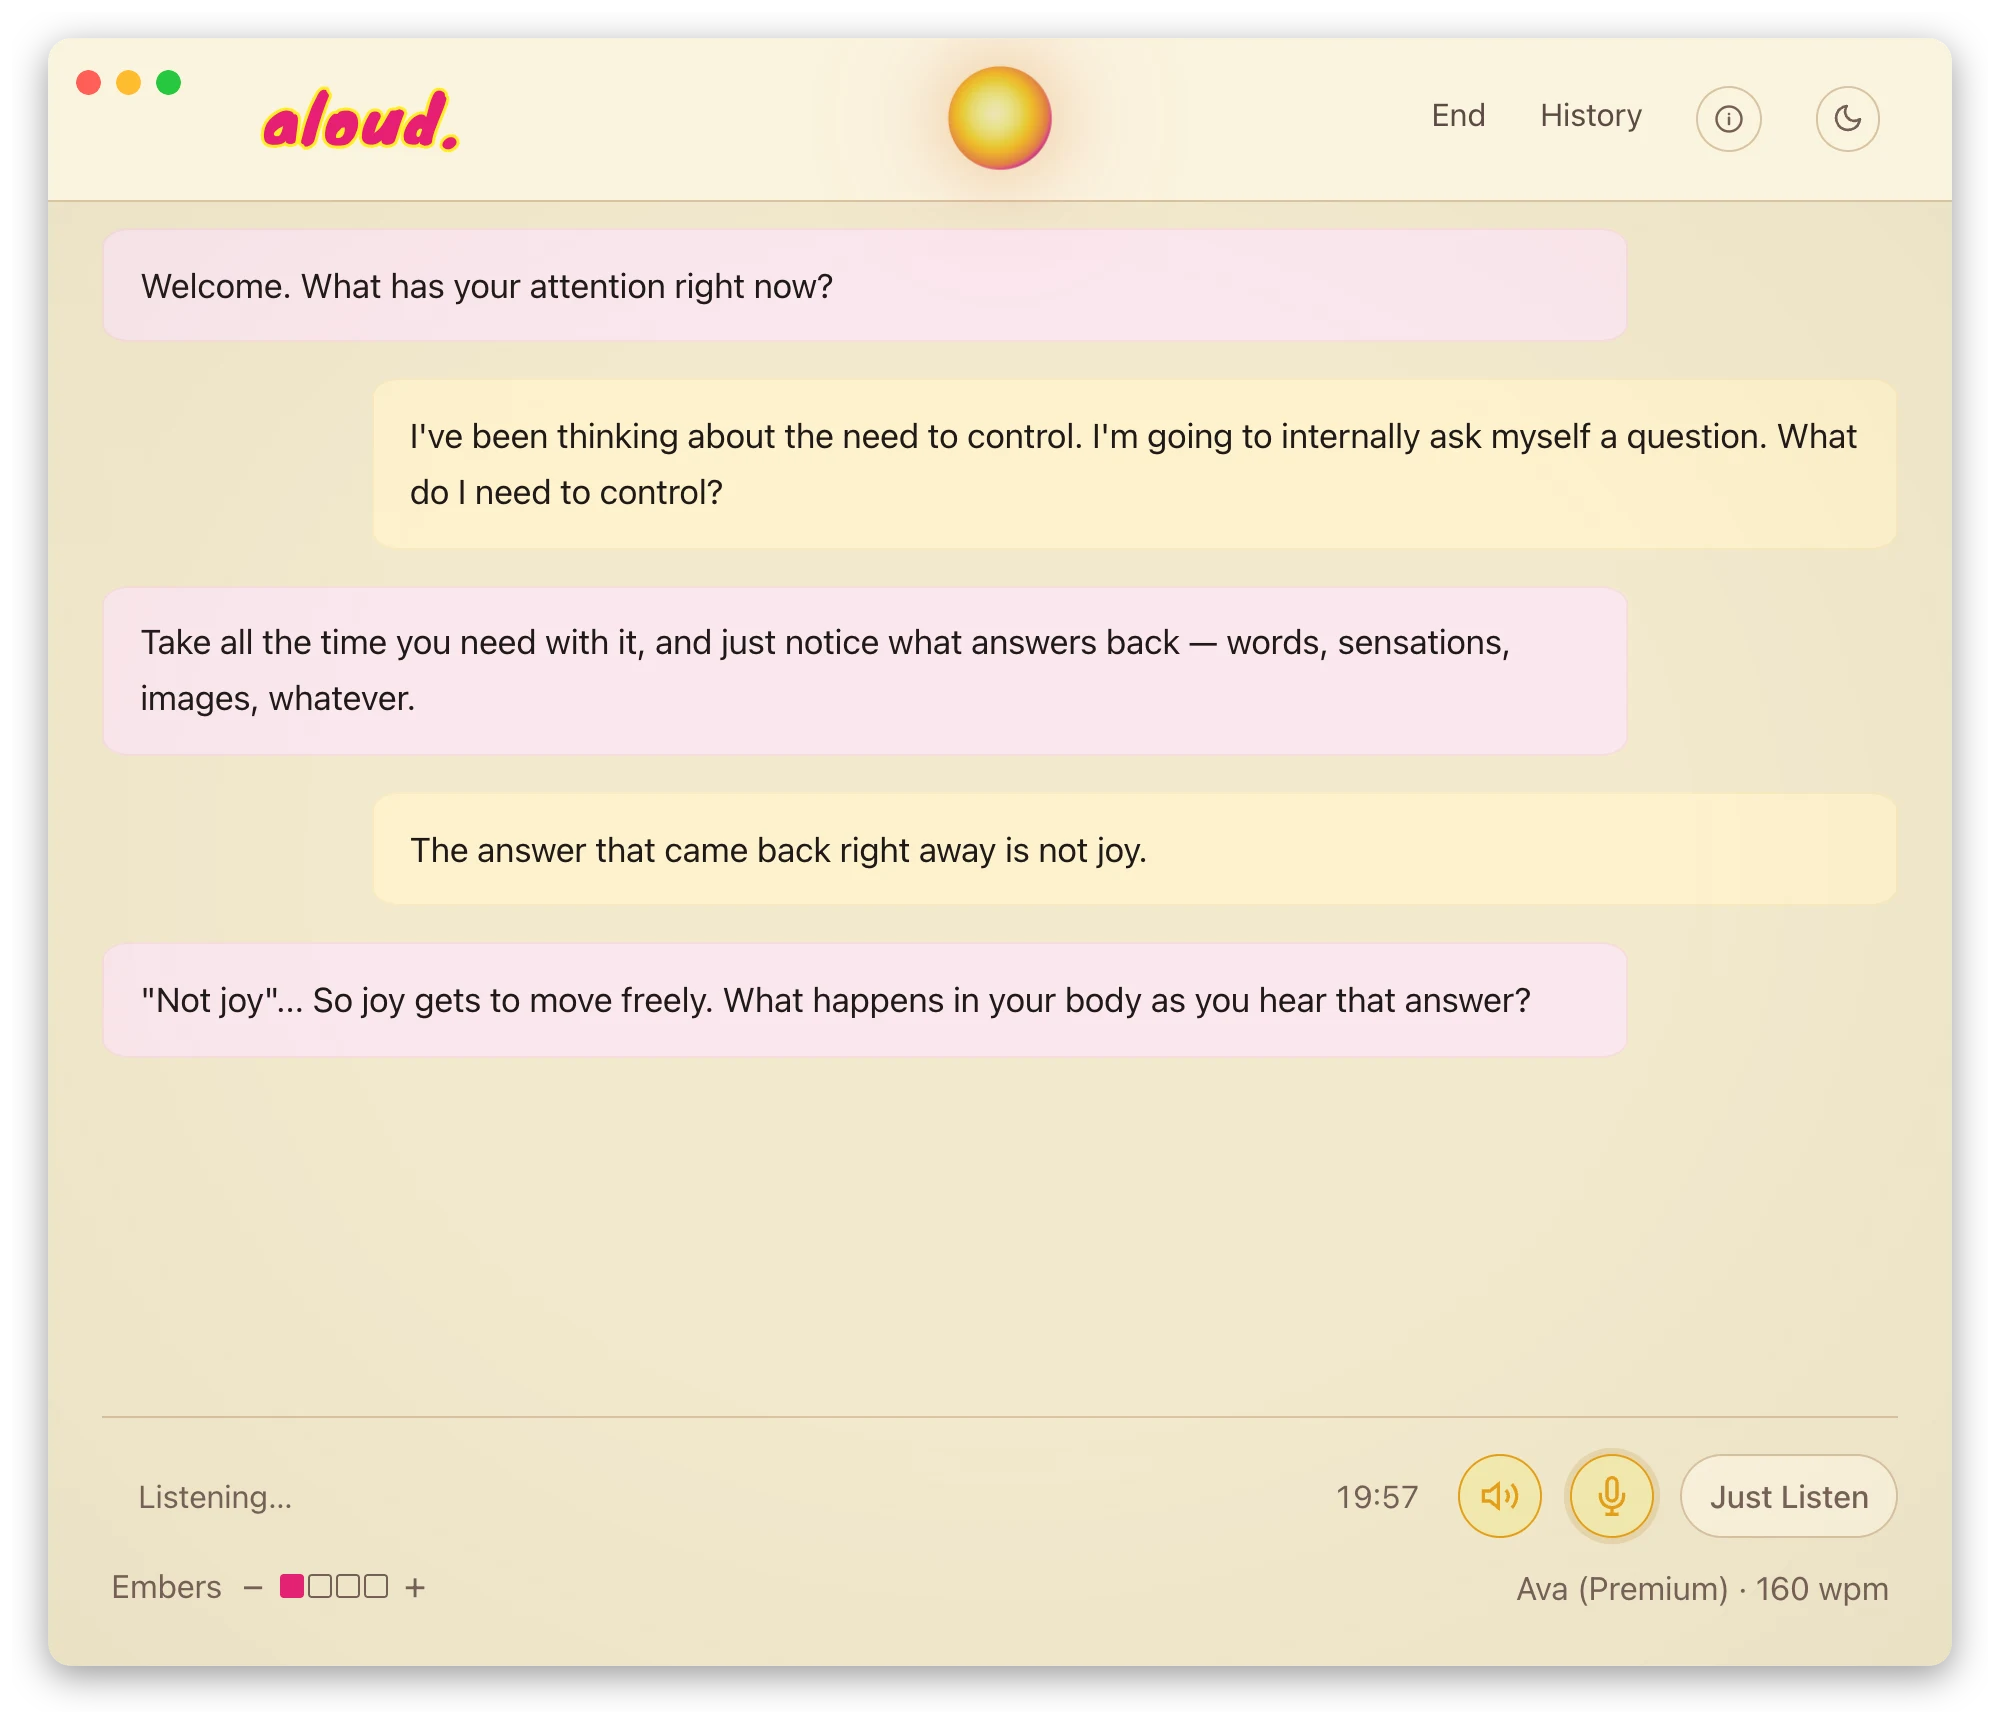
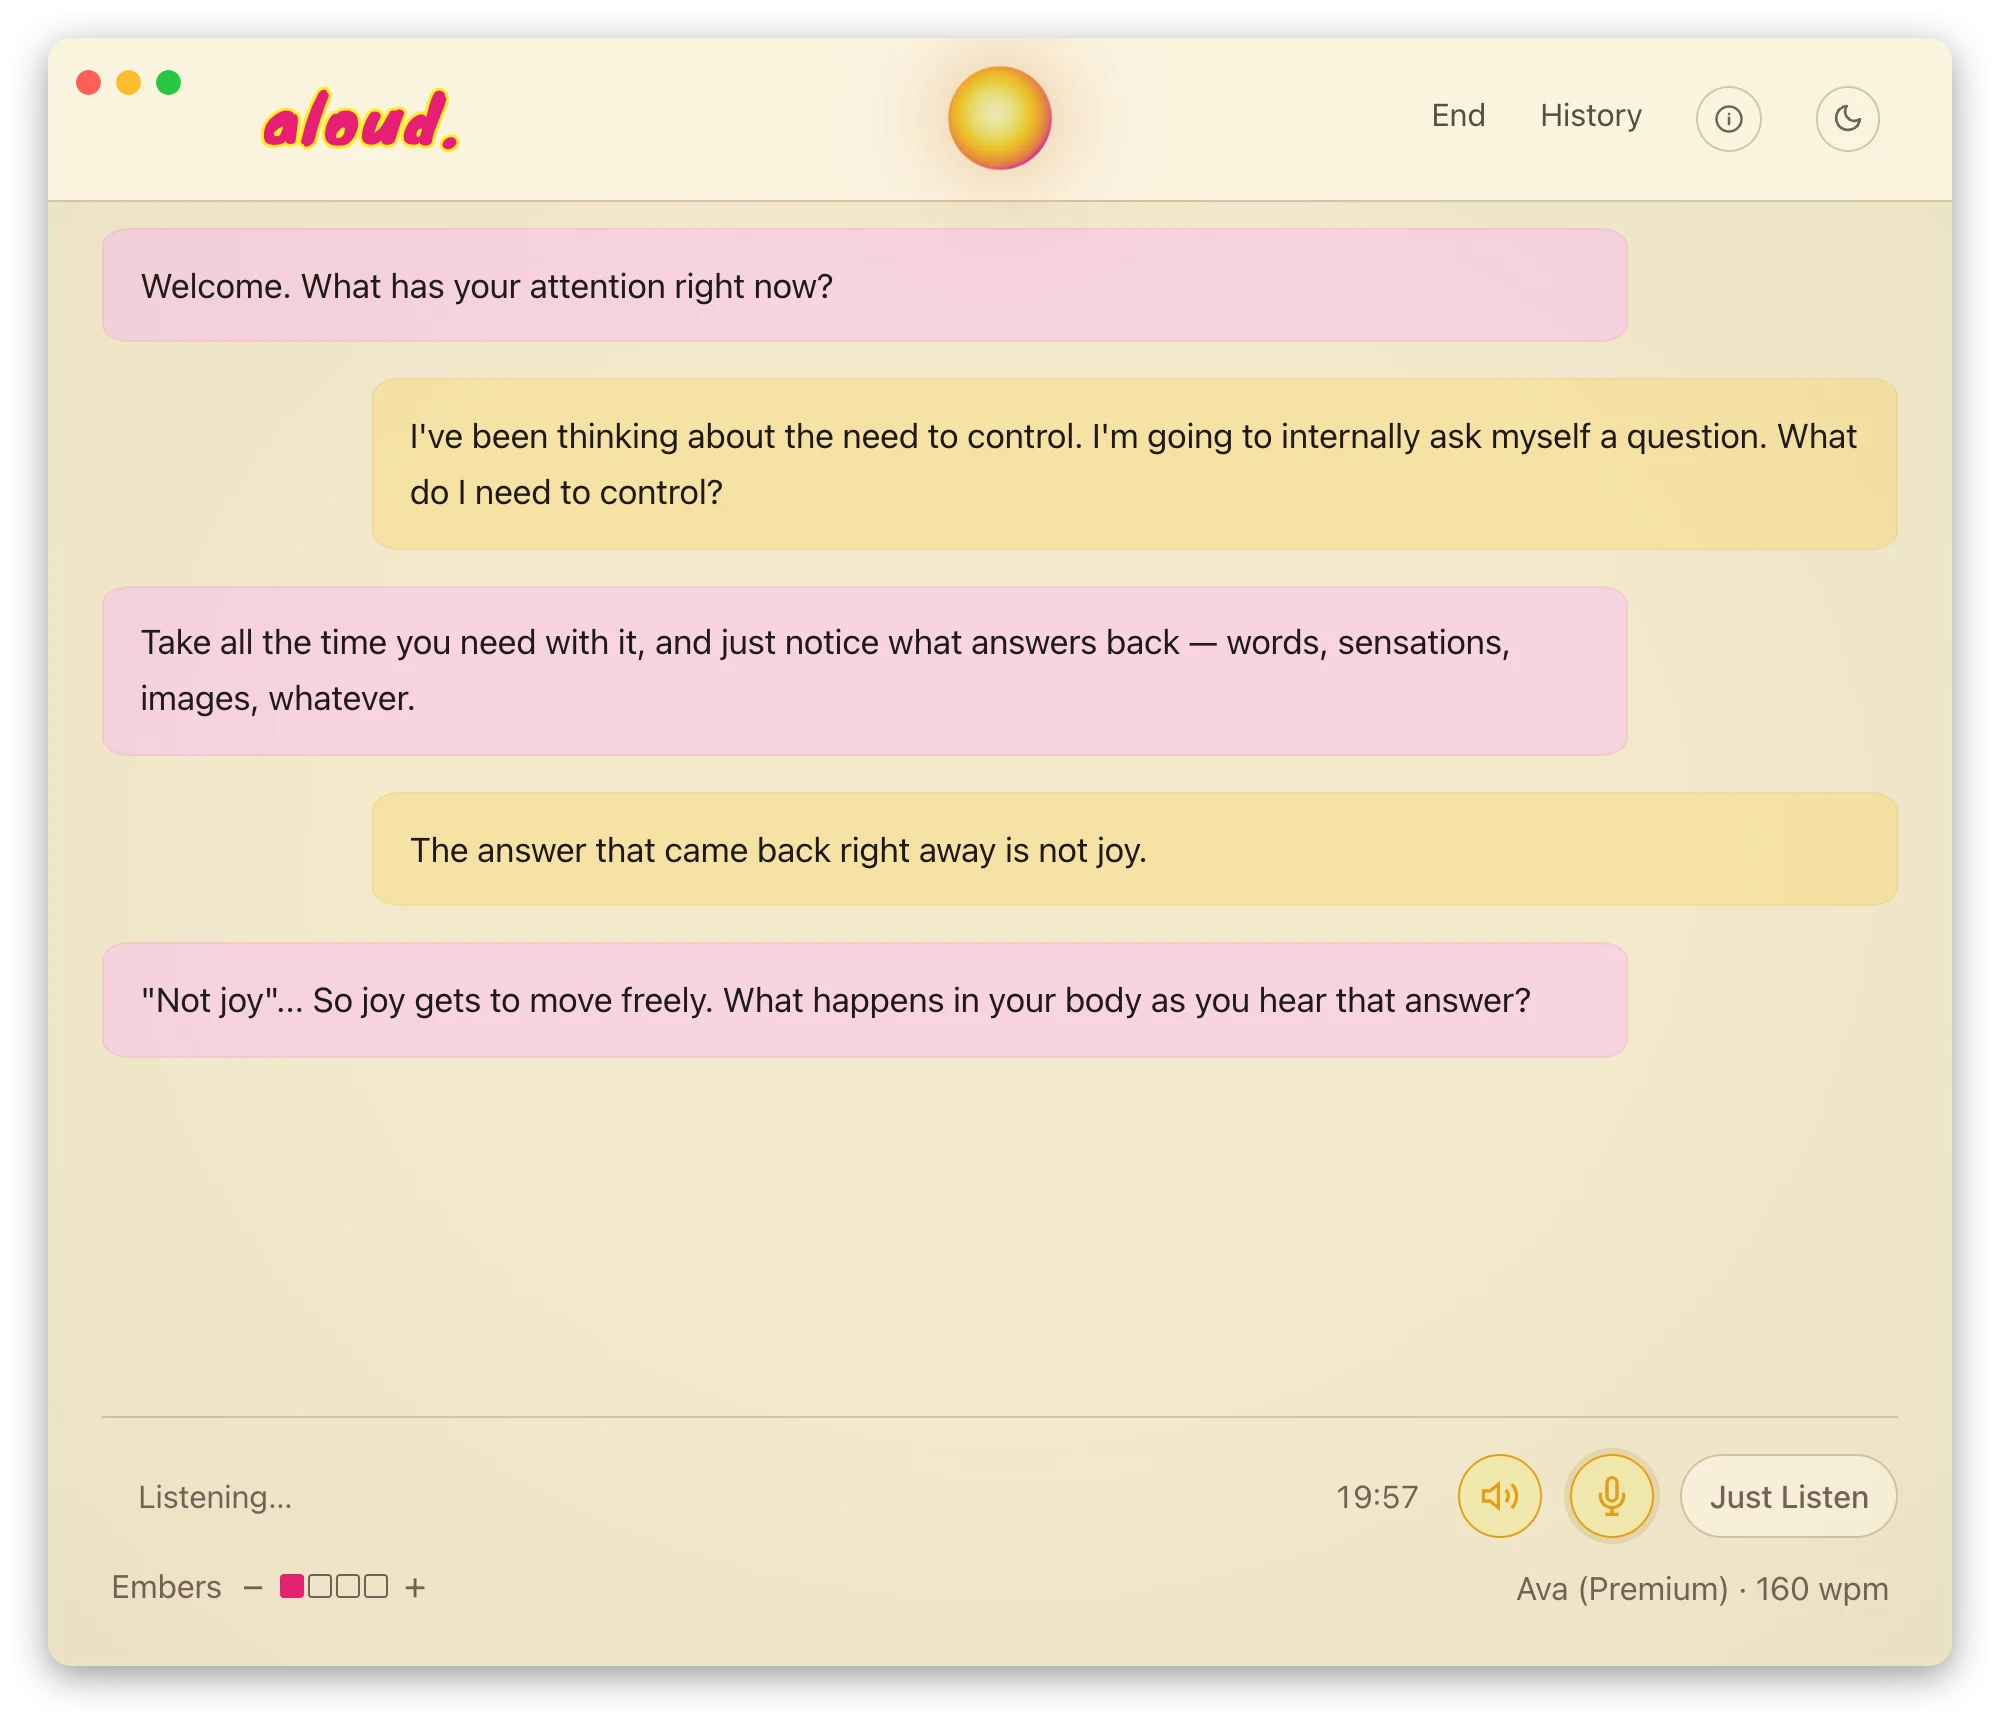
app: pigment the light chat bubbles below the ground
Near-white bubbles raced the ground to the ceiling; luminance now
separates downward (pink #f8d3e0, gold #f6e2a5), mirroring dark's
raised-above. Screenshots refreshed.

Changed region(s): [[0.186, 0.2152, 0.961, 0.3382], [0.186, 0.4611, 0.961, 0.5226]]

diff --git a/ts/ui/src/app-base.css b/ts/ui/src/app-base.css
@@ -151,8 +151,9 @@ html[data-platform="android"] {
     --orb-orange: #ed7326;
     --danger: #b04435;
     --success: #4a8e5f;
-    --facilitator-bg: #fbe7ee;
-    --user-bg: #fdf2cd;
+    /* Pigmented below the ground, mirroring dark's raised-above. */
+    --facilitator-bg: #f8d3e0;
+    --user-bg: #f6e2a5;
     --overlay-bg: rgba(253, 244, 234, 0.95);
 }
 
